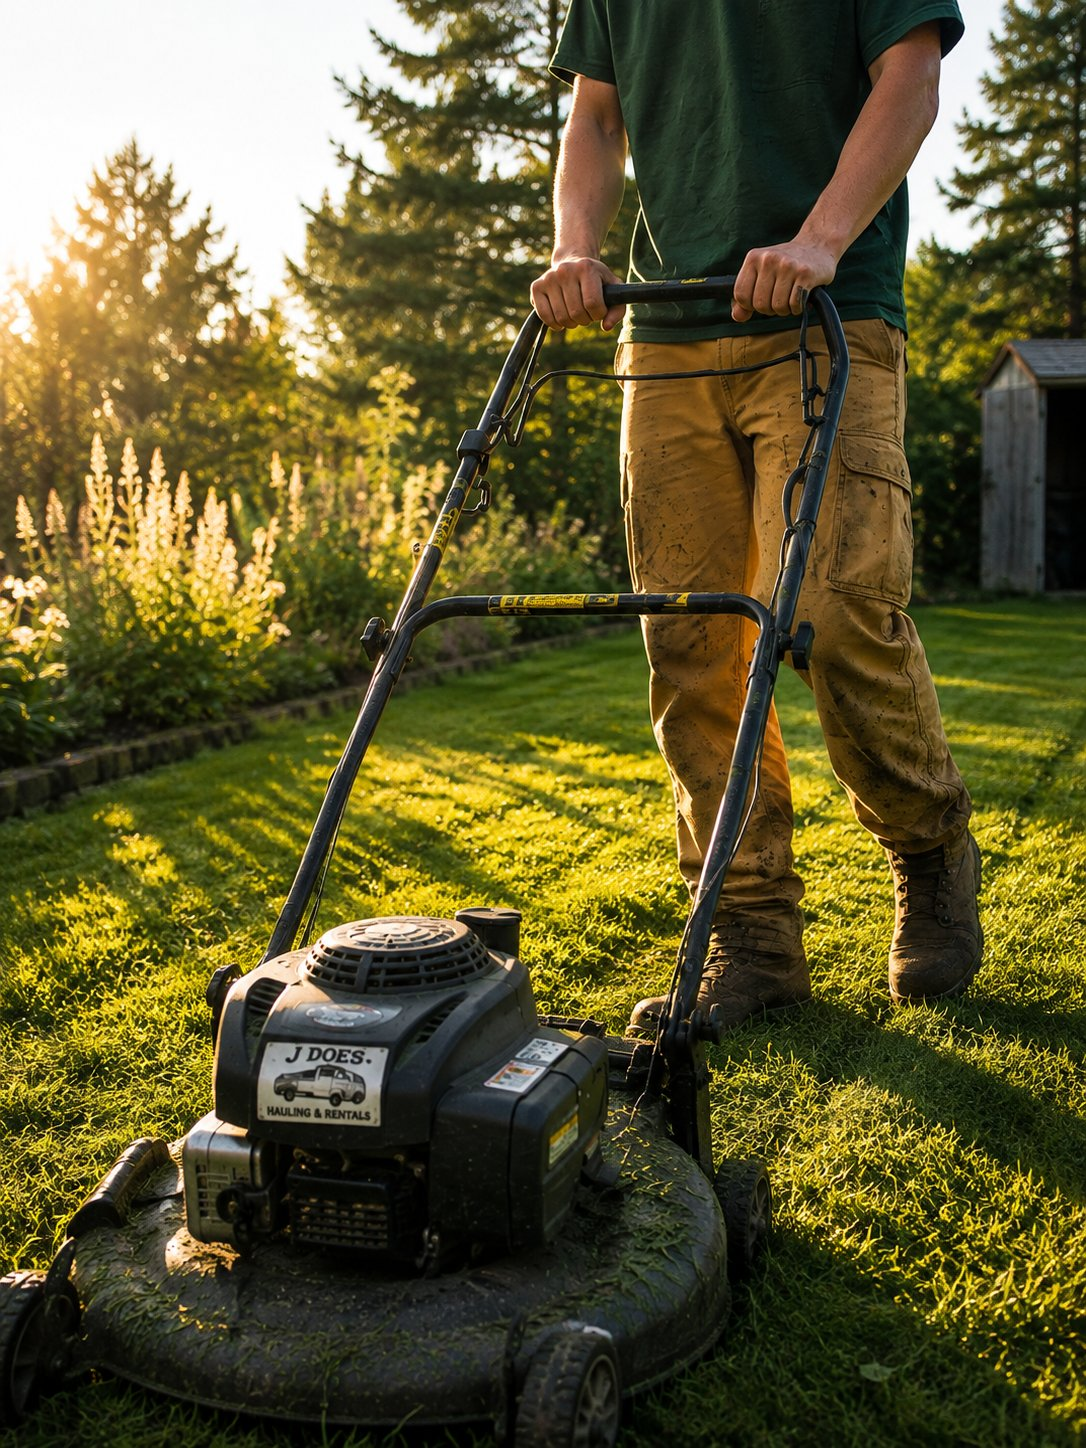
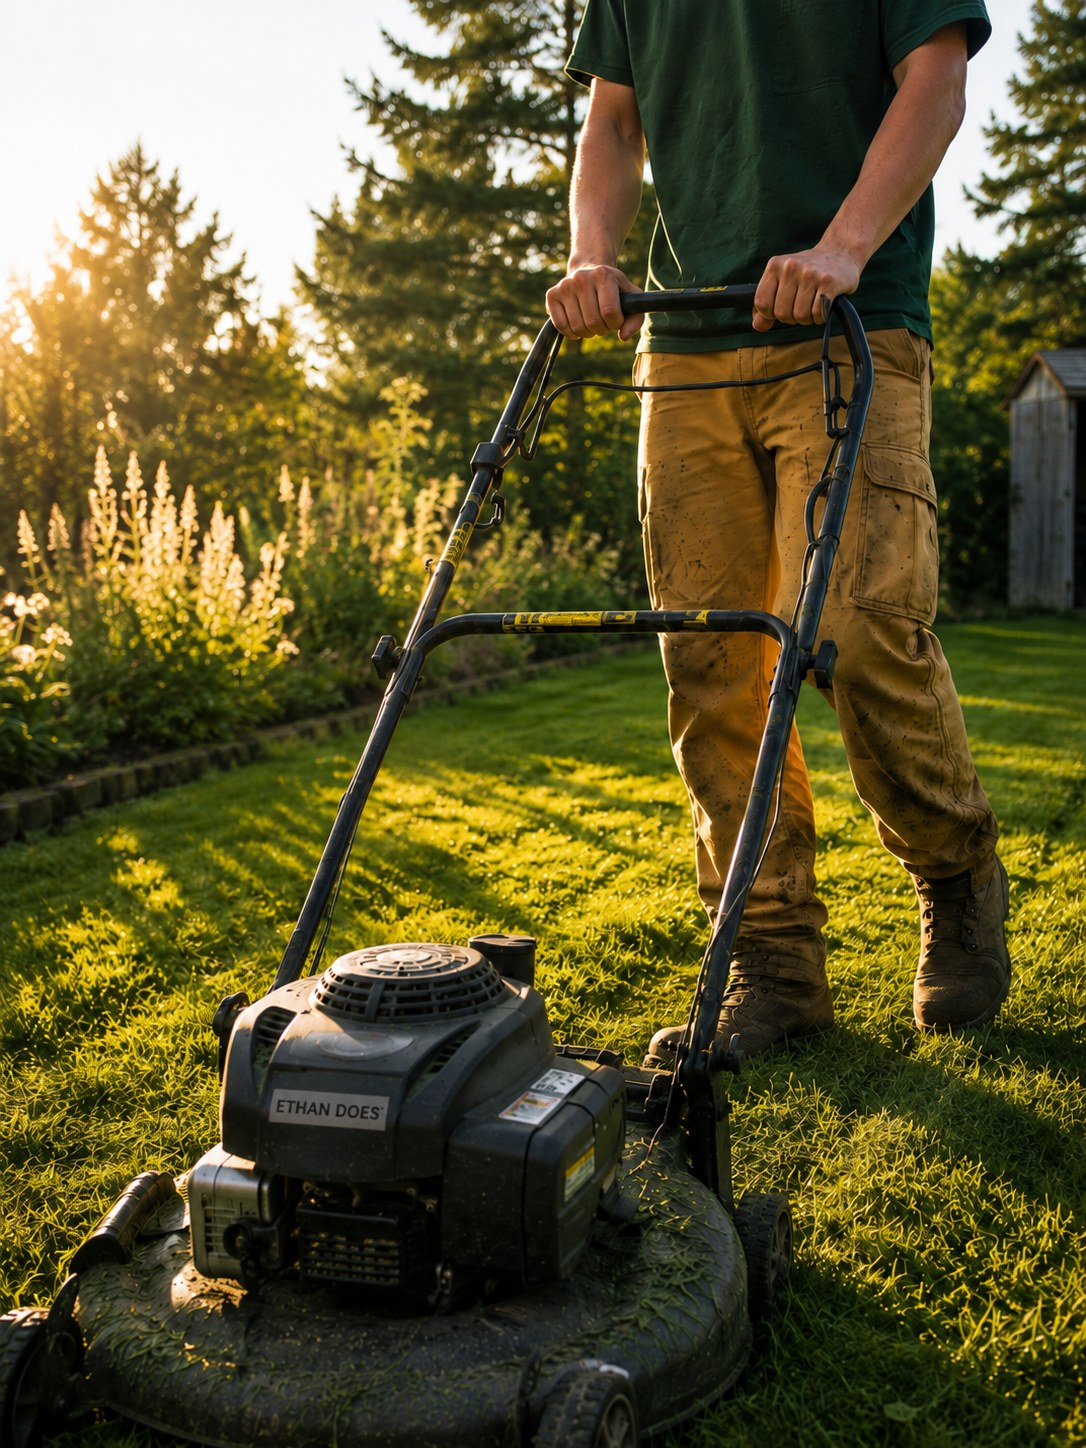
Use the Ethan Does branded version of the mowing photo
Same shot, but the mower deck sticker now reads "ETHAN DOES" instead of
"J Does Hauling & Rentals" - the right brand for Ethan's page and the
homepage card. Crop geometry is unchanged; the sticker still lands
inside both windows. Alt text updated to match.

diff --git a/index.html b/index.html
@@ -144,7 +144,7 @@
             </div>
           </a>
           <a href="ethan/" class="group border border-line bg-paper overflow-hidden hover:shadow-lg transition-shadow flex flex-col">
-            <img src="assets/img/mowing.jpg" alt="Mowing a lawn with a J Does mower" class="w-full aspect-[5/3] object-cover object-[50%_80%]">
+            <img src="assets/img/mowing.jpg" alt="Ethan Does lawn mowing" class="w-full aspect-[5/3] object-cover object-[50%_80%]">
             <div class="p-5 flex flex-col flex-1">
               <p class="text-forest-lit text-xs font-bold uppercase tracking-[0.2em] mb-1">Ethan Does</p>
               <p class="text-ink font-bold text-sm mb-2">Mowing, cleanups &amp; yard upkeep</p>

diff --git a/ethan/index.html b/ethan/index.html
@@ -89,7 +89,7 @@
       </div>
       <div class="relative">
         <div class="absolute -top-3 -left-3 w-20 h-20 bg-yellow/90" aria-hidden="true"></div>
-        <img src="../assets/img/mowing.jpg" alt="Ethan mowing a lawn with a J Does mower" class="relative w-full aspect-[4/3] object-cover object-[50%_75%] border-4 border-white shadow-xl">
+        <img src="../assets/img/mowing.jpg" alt="Ethan mowing a lawn at golden hour" class="relative w-full aspect-[4/3] object-cover object-[50%_75%] border-4 border-white shadow-xl">
       </div>
     </section>
 

diff --git a/assets/img/SOURCES.md b/assets/img/SOURCES.md
@@ -10,7 +10,7 @@ Originals kept (uncommitted) in `/source-photos/`.
 | washer-dryer.jpg | Client (Pixabay – erikawittlieb #902359) | White washer & dryer pair in a laundry room |
 | laundry-loading.jpg | Client (Pixabay – stevepb #2668472) | Loading laundry into a front-load dryer |
 | hauling-truck-action.jpg | Client (AI-generated) | Tan J Does flatbed dump truck hauling yard waste |
-| mowing.jpg | Client (AI-generated) | Mowing at golden hour, J Does sticker on the mower deck |
+| mowing.jpg | Client (AI-generated) | Mowing at golden hour, "Ethan Does" sticker on the mower deck |
 | trash-bins.jpg | Pexels #14008367 (placeholder) | Two green wheelie bins at a picket fence |
 
 Pexels = free, no attribution required, commercial OK. The remaining "placeholder" image (trash-bins.jpg)
